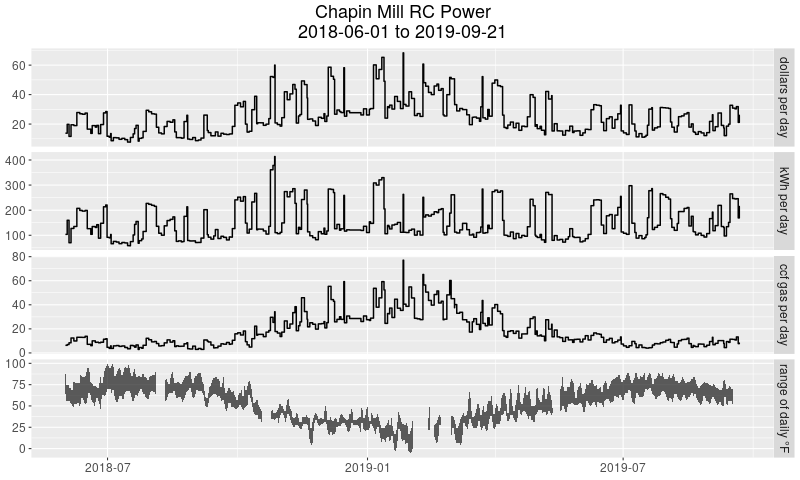
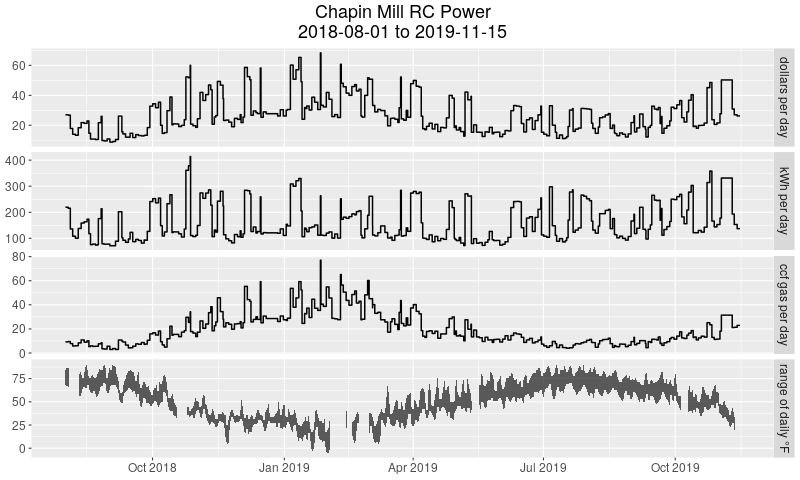
auto commit

diff --git a/index.html b/index.html
@@ -3,7 +3,7 @@
 "http://www.w3.org/TR/xhtml1/DTD/xhtml1-strict.dtd">
 <html xmlns="http://www.w3.org/1999/xhtml" lang="en" xml:lang="en">
 <head>
-<!-- 2019-09-22 Sun 06:41 -->
+<!-- 2019-11-15 Fri 11:15 -->
 <meta http-equiv="Content-Type" content="text/html;charset=utf-8" />
 <meta name="viewport" content="width=device-width, initial-scale=1" />
 <title>Chapin Mill Energy</title>
@@ -252,13 +252,13 @@ for the JavaScript code in this tag.
 <body>
 <div id="content">
 <h1 class="title">Chapin Mill Energy</h1>
-<div id="outline-container-orgcaddd70" class="outline-2">
-<h2 id="orgcaddd70">Energy Comparisons</h2>
-<div class="outline-text-2" id="text-orgcaddd70">
+<div id="outline-container-org87c308a" class="outline-2">
+<h2 id="org87c308a">Energy Comparisons</h2>
+<div class="outline-text-2" id="text-org87c308a">
 </div>
-<div id="outline-container-org14f7ff0" class="outline-3">
-<h3 id="org14f7ff0">Energy Consumption and Weather</h3>
-<div class="outline-text-3" id="text-org14f7ff0">
+<div id="outline-container-org3dc6d37" class="outline-3">
+<h3 id="org3dc6d37">Energy Consumption and Weather</h3>
+<div class="outline-text-3" id="text-org3dc6d37">
 <p>
 The plot below describes outdoor air temperatures and the rate of
 retreat center energy consumption for the past few months. These
@@ -317,9 +317,9 @@ dollar cost&#x2014;over all times of the year and over all events.
 
 <p>
 To be slightly more precise, 95% of the time the observed
-electricity power consumption was less than <code>303</code>
+electricity power consumption was less than <code>304</code>
 kWh per day, gas consumption was less than
-<code>47</code> hundred cubic feet per day and the
+<code>46</code> hundred cubic feet per day and the
 overall energy cost was less than <code>53</code> dollars per
 day.
 </p>
@@ -407,9 +407,9 @@ the results would not be very interesting.
 </div>
 </div>
 
-<div id="outline-container-org83bf209" class="outline-3">
-<h3 id="org83bf209">Natural gas</h3>
-<div class="outline-text-3" id="text-org83bf209">
+<div id="outline-container-orgf22f49e" class="outline-3">
+<h3 id="orgf22f49e">Natural gas</h3>
+<div class="outline-text-3" id="text-orgf22f49e">
 <p>
 For a given level of occupancy of the retreat center it would be
 natural to consider gas consumption as consisting of two parts:
@@ -522,9 +522,9 @@ predictions for times that are either idle, sesshin, SIMT or UR.)
 </div>
 </div>
 
-<div id="outline-container-orge1e8297" class="outline-3">
-<h3 id="orge1e8297">Electricity</h3>
-<div class="outline-text-3" id="text-orge1e8297">
+<div id="outline-container-org8f97531" class="outline-3">
+<h3 id="org8f97531">Electricity</h3>
+<div class="outline-text-3" id="text-org8f97531">
 <p>
 For the period under consideration electricity usage did not vary
 with outside air temperature in a significant way. The data only
@@ -599,9 +599,9 @@ dollars respectively.
 </div>
 </div>
 
-<div id="outline-container-org4198453" class="outline-2">
-<h2 id="org4198453">Details</h2>
-<div class="outline-text-2" id="text-org4198453">
+<div id="outline-container-orgd464fc8" class="outline-2">
+<h2 id="orgd464fc8">Details</h2>
+<div class="outline-text-2" id="text-orgd464fc8">
 <p>
 The natural gas model is
 \[
@@ -657,6 +657,33 @@ follows:
 <colgroup>
 <col  class="org-left" />
 
+<col  class="org-left" />
+
+<col  class="org-left" />
+
+<col  class="org-left" />
+
+<col  class="org-left" />
+</colgroup>
+<tbody>
+<tr>
+<td class="org-left">&#xa0;</td>
+<td class="org-left">Estimate</td>
+<td class="org-left">Std. Error</td>
+<td class="org-left">t value</td>
+<td class="org-left">Pr(</td>
+</tr>
+</tbody>
+</table>
+<p>
+&vert; t &vert; ) |
+</p>
+<table border="2" cellspacing="0" cellpadding="3" rules="groups" frame="hsides">
+
+
+<colgroup>
+<col  class="org-left" />
+
 <col  class="org-right" />
 
 <col  class="org-right" />
@@ -666,14 +693,6 @@ follows:
 <col  class="org-right" />
 </colgroup>
 <tbody>
-<tr>
-<td class="org-left">&#xa0;</td>
-<td class="org-right">Estimate</td>
-<td class="org-right">Std. Error</td>
-<td class="org-right">t value</td>
-<td class="org-right">Pr(&gt; &vert; t &vert; )</td>
-</tr>
-
 <tr>
 <td class="org-left">&alpha;<sub>0</sub></td>
 <td class="org-right">5.53</td>
@@ -740,6 +759,33 @@ where \(y\) is electricity consumption in kWh per day and the
 <colgroup>
 <col  class="org-left" />
 
+<col  class="org-left" />
+
+<col  class="org-left" />
+
+<col  class="org-left" />
+
+<col  class="org-left" />
+</colgroup>
+<tbody>
+<tr>
+<td class="org-left">&#xa0;</td>
+<td class="org-left">Estimate</td>
+<td class="org-left">Std. Error</td>
+<td class="org-left">t value</td>
+<td class="org-left">Pr(</td>
+</tr>
+</tbody>
+</table>
+<p>
+&vert; t &vert; ) |
+</p>
+<table border="2" cellspacing="0" cellpadding="3" rules="groups" frame="hsides">
+
+
+<colgroup>
+<col  class="org-left" />
+
 <col  class="org-right" />
 
 <col  class="org-right" />
@@ -749,14 +795,6 @@ where \(y\) is electricity consumption in kWh per day and the
 <col  class="org-right" />
 </colgroup>
 <tbody>
-<tr>
-<td class="org-left">&#xa0;</td>
-<td class="org-right">Estimate</td>
-<td class="org-right">Std. Error</td>
-<td class="org-right">t value</td>
-<td class="org-right">Pr(&gt; &vert; t &vert; )</td>
-</tr>
-
 <tr>
 <td class="org-left">&beta;<sub>1</sub></td>
 <td class="org-right">107.70</td>
@@ -794,7 +832,7 @@ where \(y\) is electricity consumption in kWh per day and the
 </div>
 </div>
 <div id="postamble" class="status">
-<p class="date">Created: 2019-09-22 Sun 06:41</p>
+<p class="date">Created: 2019-11-15 Fri 11:15</p>
 <p class="validation"><a href="http://validator.w3.org/check?uri=referer">Validate</a></p>
 </div>
 </body>
